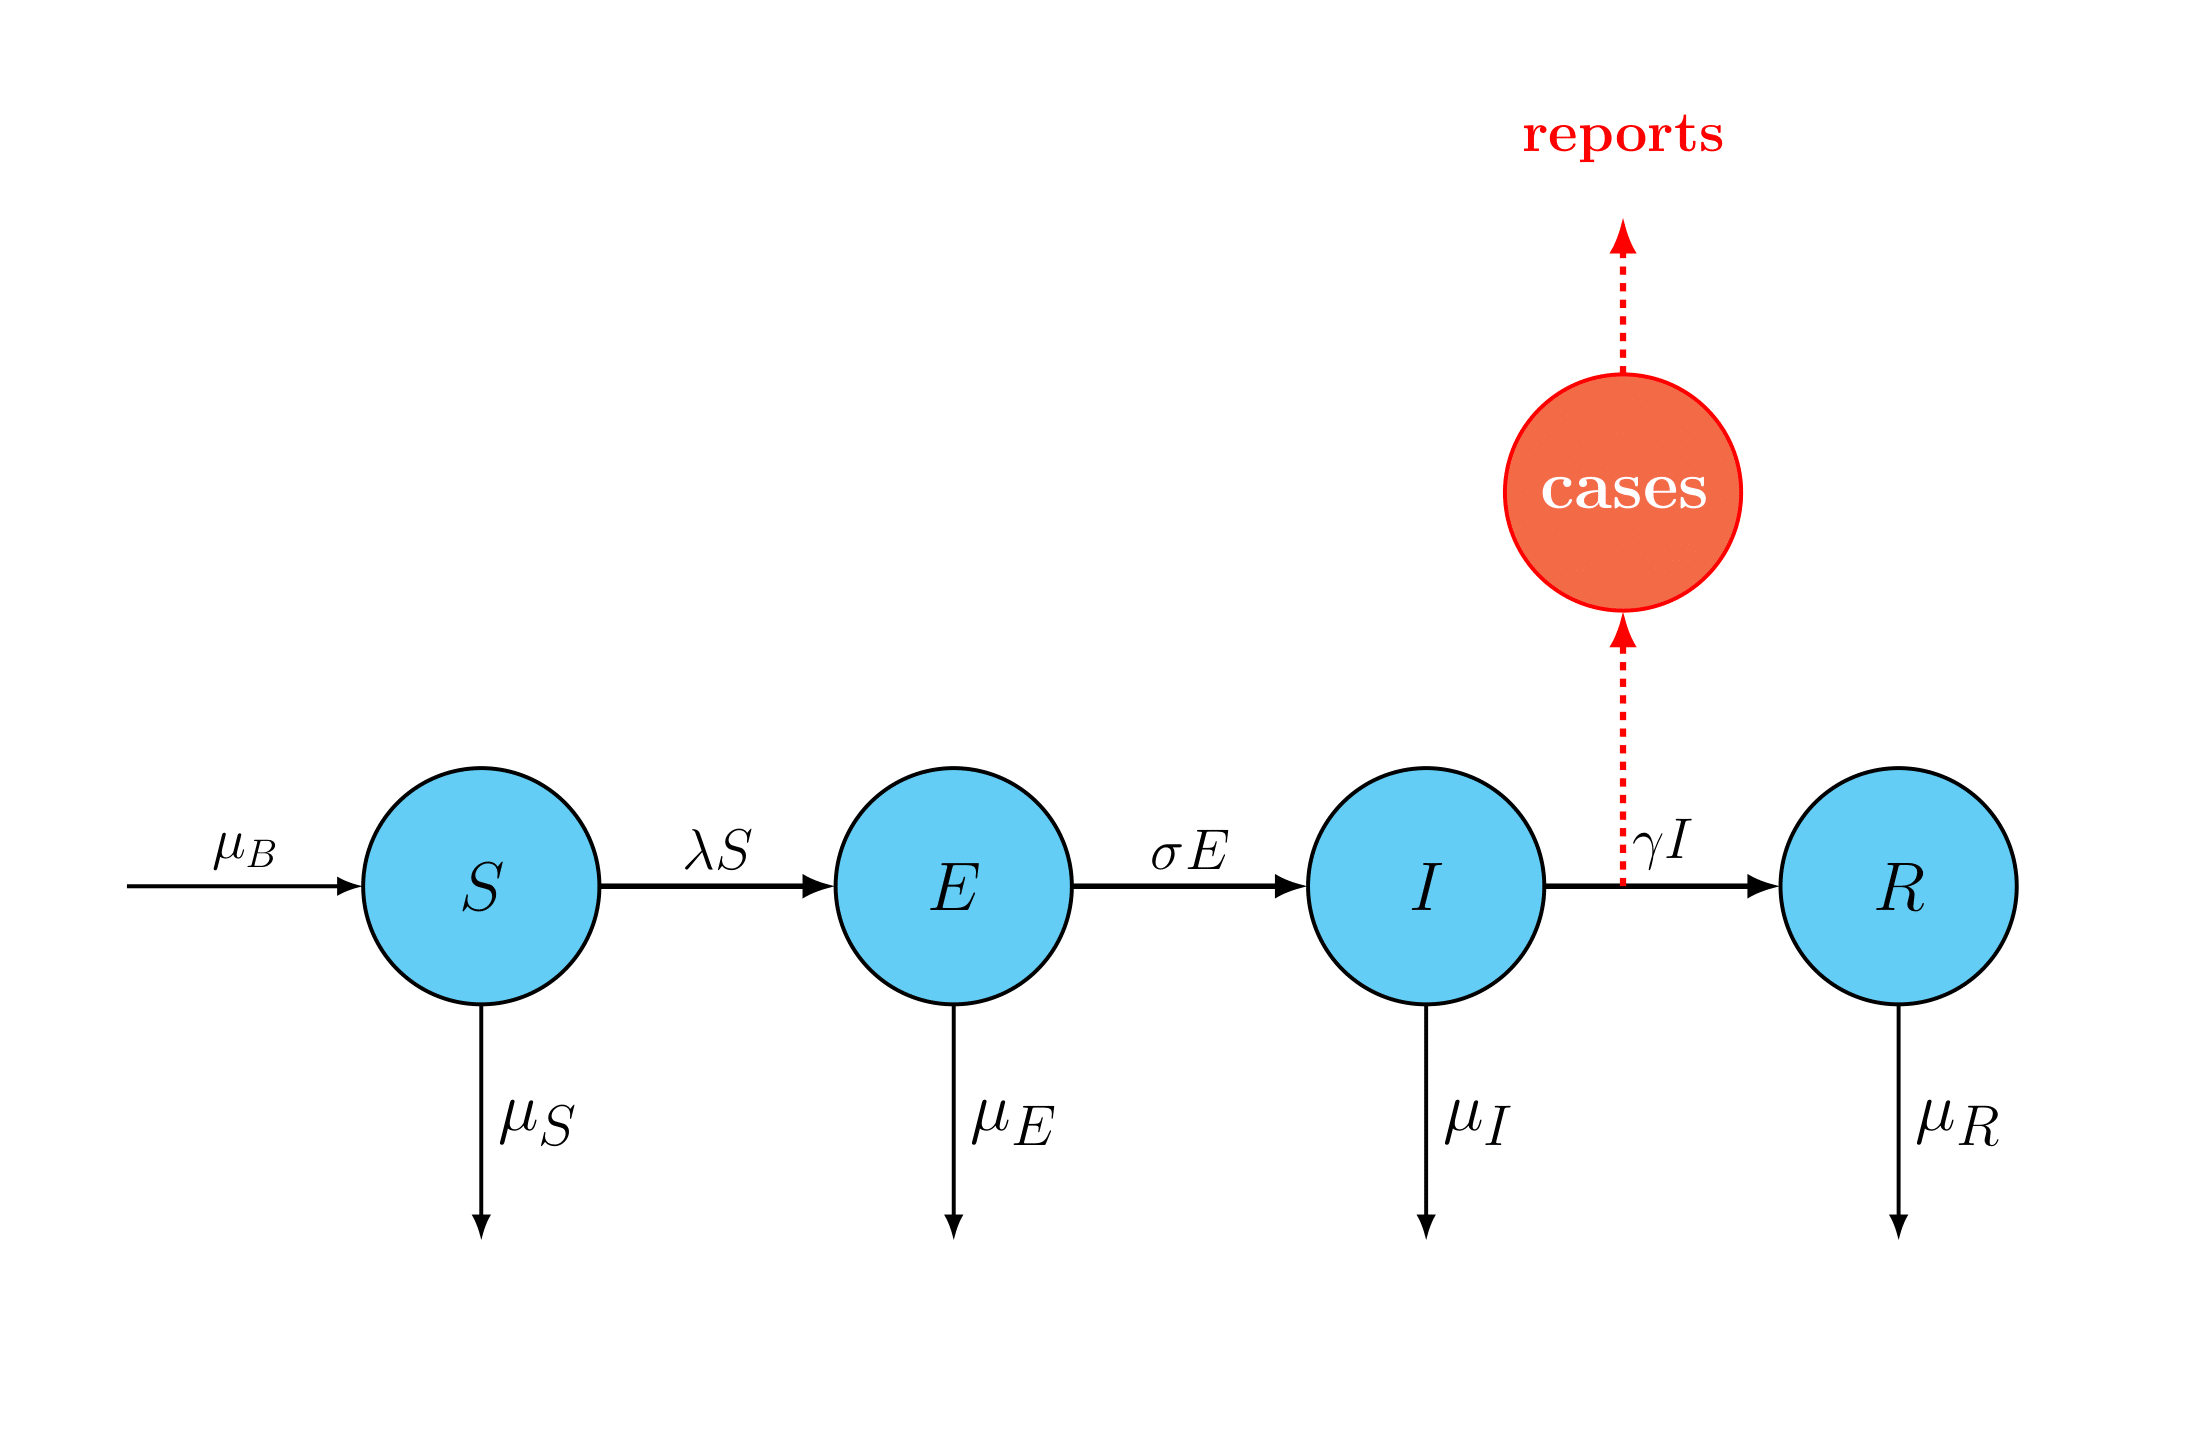
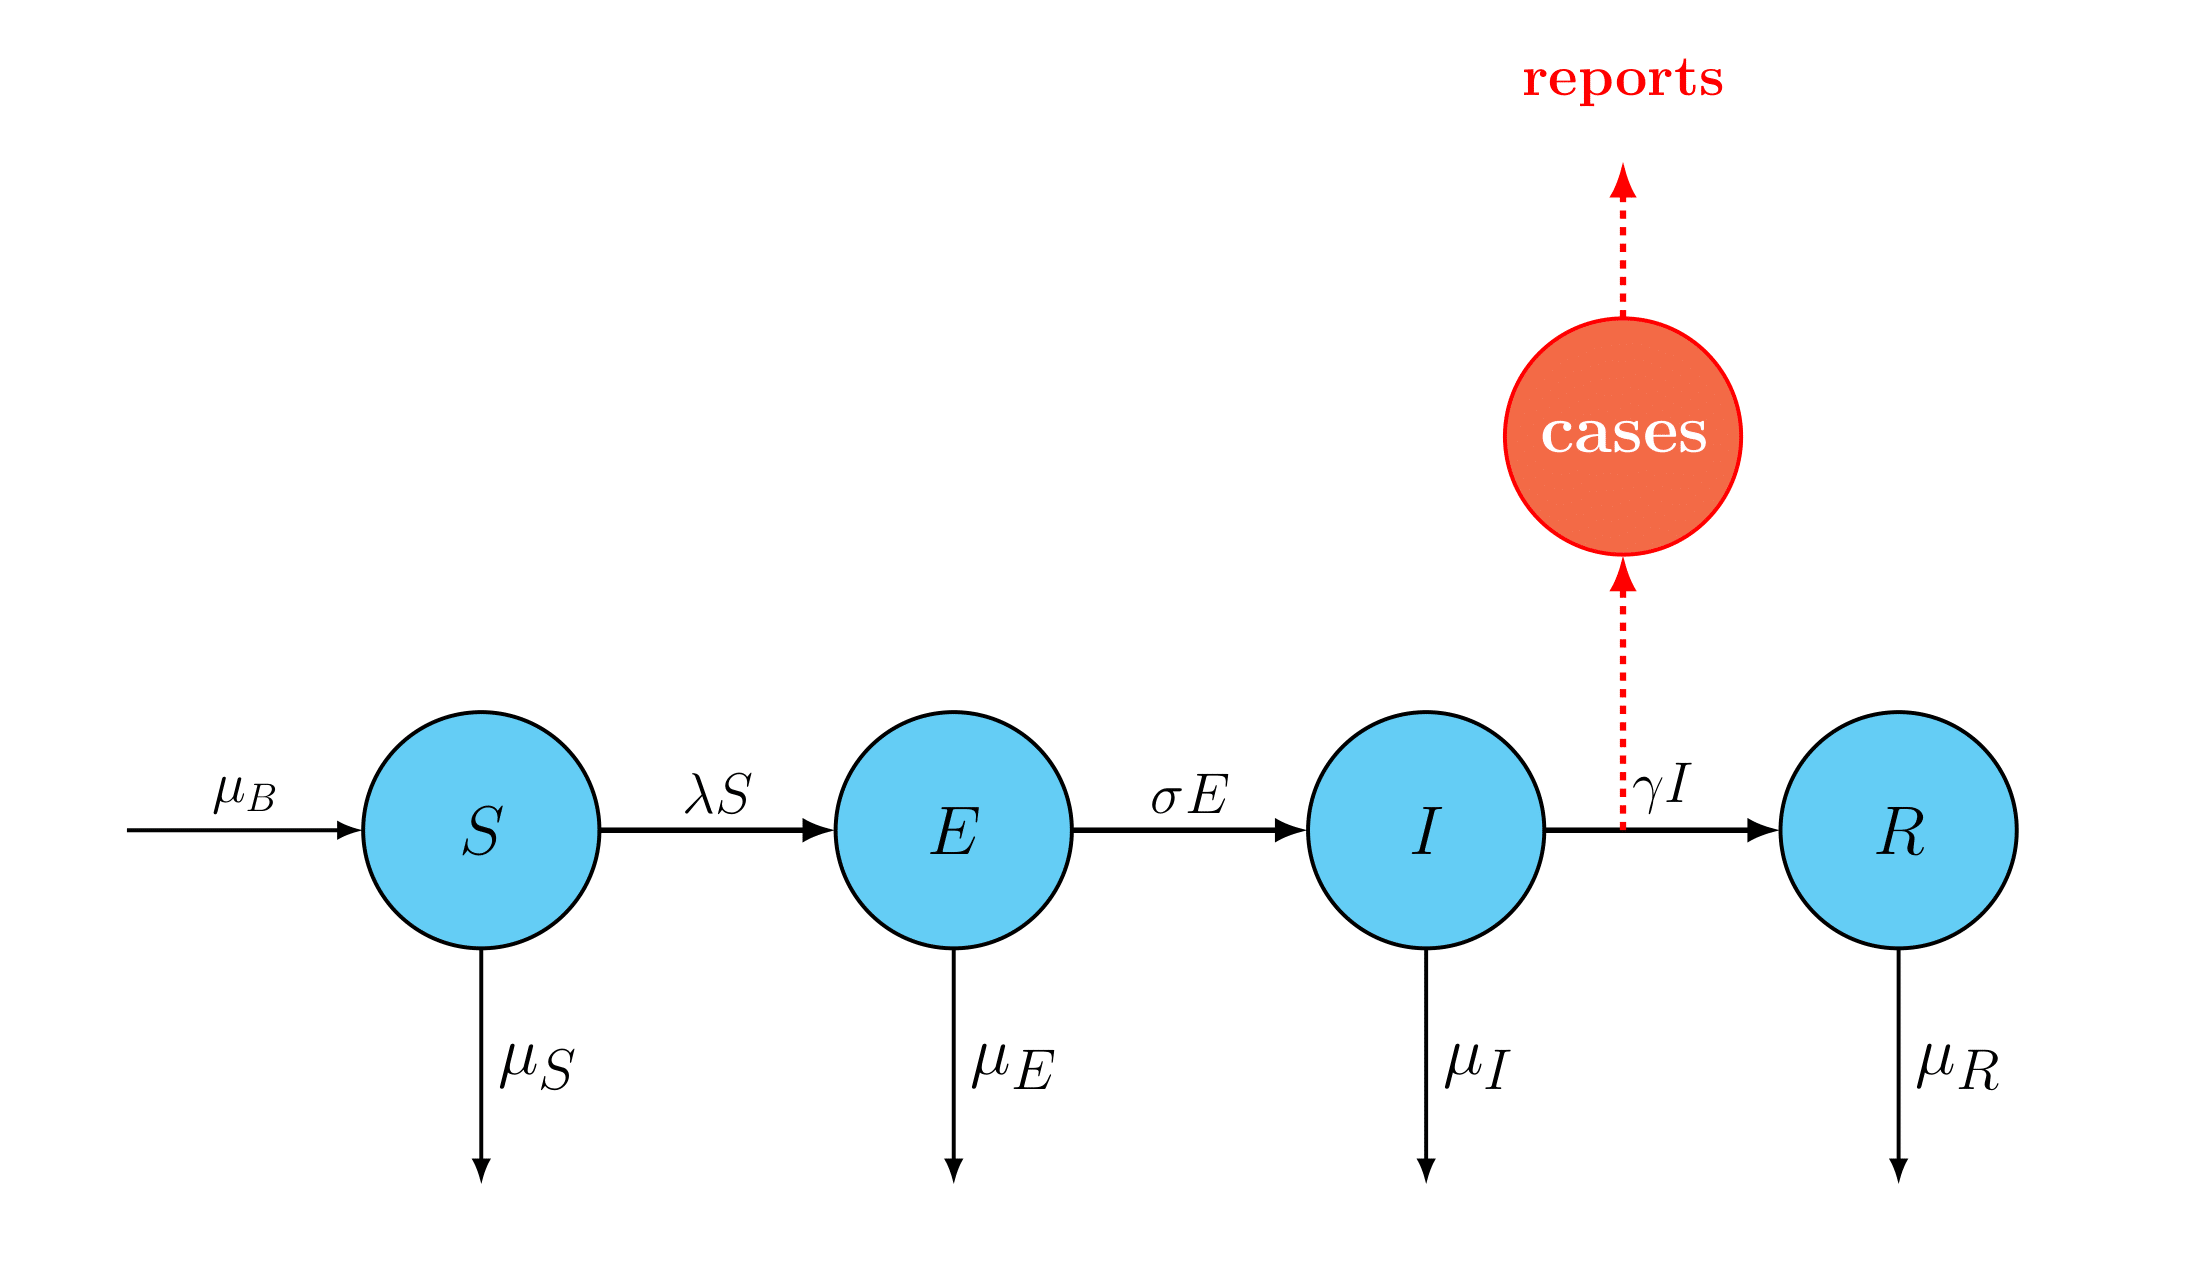
update sobol ui

diff --git a/index.html b/index.html
@@ -29,7 +29,7 @@
   <br>
 <div class="container" style="width: 80%">
   <p>Data analysis typically involves identifying regions of parameter space within which a postulated model is statistically consistent with the data. Additionally, one frequently desires to assess the relative merits of alternative models as explanations of the data. </p>
-    <p>A partially observed Markov process (POMP) model consists of incomplete and noisy measurements of a latent, unobserved Markov process. It has been a challenge to provide a software environment that can effectively handle broad classes of POMP models and take advantage of the wide range of statistical methodologies that have been proposed for such models. The pomp software package (King et al. 2016) provides us with a wide range of functions to represent POMP models.</p>
+    <p>A partially observed Markov process (POMP) model consists of incomplete and noisy measurements of a latent, unobserved Markov process. It has been a challenge to provide a software environment that can effectively handle broad classes of POMP models and take advantage of the wide range of statistical methodologies that have been proposed for such models. The <a href="https://kingaa.github.io/pomp/install.html">R package pomp </a> (King et al. 2016) provides us with a wide range of functions to represent POMP models.</p>
 
   <ul class="nav nav-tabs">
     <li class="active"><a data-toggle="tab" href="#home">Home</a></li>
@@ -40,24 +40,7 @@
   <div class="tab-content ">
     <!-- FIRST TAB -->
     <div id="home" class="tab-pane fade in active ">
-        <h3>What is trajectory matching?</h3>
-        <p> When dealing with large populations deterministic models are often used. In deterministic compartmental models, the transition rates from one compartment to another are mathematically expressed as derivatives. Hence the model is formulated using ordinary differential equations (ODE), Kermack WO [1927]. Trajectory matching attempts to match trajectories of a deterministic model to data. In fact,  the function estimates the parameter of the model by fitting the trajectory to data. It maximize the likelihood of the data assuming there is no process noise and all stochasticity is measurement error. The R package <a href="https://kingaa.github.io/pomp/install.html">pomp </a> provides useful tools for trajectory matching. </p>
-        <h4>Model</h4>
-          <p>Infectious diseases of humans have been well-documented in literature and historical
-          records due to their sometimes calamitous effects on civilizations. The effect of a disease on a population varies, depending on the structure of the
-          population (rural or urban, aging or young, easy or difficult access to health care),
-          and the history that the community has had with the specific disease. Mathematical and statistical tools have been used to describe the dynamics of
-          infectious diseases. </p>
-          <p>The SEIR model is an extension of the model first studied by Kermack and McKendrick [1932, 1933]. This is a standard compartmental model framework used in epidemiology in which the hosts have the following compartments available: susceptible, exposed, infected, recovered. Considering N(t) the population at time t,  $$S(t) + E(t) + I(t) + R(t) = N(t)$$</p>
-          <p>Here the number of new infected cases is defined by $$\text{cases}: C(t_1,t_2) = \int_{t_1}^{t_2} B(t) \, \frac{S(t) I(t)}{N(t)}\, dt$$ where \( B(t)\) is the forcing function
-          that reflects the actual seasonally changing circumstances. \(\rho\) is the probability of reporting and  \( \psi \) is reporting overdispersion. Reports between  \((t_1, t_2)\) is normally distributed that is similar to the overdispersed binomial. $$\text{reports} \sim  \text{Normal}(\rho \, C(t_1, t_2), \rho \, (1- \rho)C(t_1, t_2) + ( \psi \rho\, C(t_1, t_2))^2 )$$</p>
-          <div>
-          <figure style="margin-left: 20%">
-            <img id="SEIR" src="./data/SEIR.png" width="60%" height="50%" >
-            <figcaption style="margin-left: 10%" >Figure 2: SEIR Model include hidden cases and the report. </figcaption>
-          </figure>
-        </div>
-        <h4>Tools for fitting the model</h4>
+      <h3>POMP</h3>
         <p>Partially observed Markov process models consist of an unobserved Markov state process, connected to the data via a model of the observation (measurement) process. The process model is determined by the density \(P(x_n|x_{n−1})\) and the measurement process is determined by the density \(P(y_n|x_n)\).</p>
         <div>
           <figure style="margin-left: 20%">
@@ -65,7 +48,26 @@
             <figcaption style="margin-left: 28%">Figure 2: POMP model </figcaption>
           </figure>
         </div>
-        <br>
+
+        <h3>What is trajectory matching?</h3>
+        <p> When dealing with large populations deterministic models are often used. In deterministic compartmental models, the transition rates from one compartment to another are mathematically expressed as derivatives. Hence the model is formulated using ordinary differential equations (ODE), Kermack WO [1927]. Trajectory matching attempts to match trajectories of a deterministic model to data. In fact,  the function estimates the parameter of the model by fitting the trajectory to data. It maximize the likelihood of the data assuming there is no process noise and all stochasticity is measurement error. </p>
+        <h4>Model</h4>
+          <p>Infectious diseases of humans have been well-documented in literature and historical
+          records due to their sometimes calamitous effects on civilizations. The effect of a disease on a population varies, depending on the structure of the
+          population (rural or urban, aging or young, easy or difficult access to health care),
+          and the history that the community has had with the specific disease. Mathematical and statistical tools have been used to describe the dynamics of
+          infectious diseases. </p> 
+          <div>
+            <figure style="text-align: center;">
+              <img id="SEIR" src="./data/SEIR.png" width="40%" height="30%" >
+              <figcaption style="margin-left: 10%" >Figure 2: SEIR Model include hidden cases and the report. </figcaption>
+            </figure>
+          </div>
+          <br>
+          <p>The SEIR model is an extension of the model first studied by Kermack and McKendrick [1932, 1933]. This is a standard compartmental model framework used in epidemiology in which the hosts have the following compartments available: susceptible, exposed, infected, recovered. Considering N(t) the population at time t,  $$S(t) + E(t) + I(t) + R(t) = N(t)$$</p>
+          <p>Here the number of new infected cases is defined by $$\text{cases}: C(t_1,t_2) = \int_{t_1}^{t_2} B(t) \, \frac{S(t) I(t)}{N(t)}\, dt$$ where \( B(t)\) is the forcing function
+          that reflects the actual seasonally changing circumstances. \(\rho\) is the probability of reporting and  \( \psi \) is reporting overdispersion. Reports between  \((t_1, t_2)\) is normally distributed that is similar to the overdispersed binomial. $$\text{reports} \sim  \text{Normal}(\rho \, C(t_1, t_2), \rho \, (1- \rho)C(t_1, t_2) + ( \psi \rho\, C(t_1, t_2))^2 )$$</p>
+        
         <p> Using process model, measurement model and initial point, trajectory matching can optimize the parameter of the model based on the maximum likihood  estimation and fit the model to the data. The result can be illustrated as an simulation.  </p>
       <figure style="text-align: center;">
         <img id="data" src="./data/LondonData.png" width="70%" height="40%" >
@@ -101,7 +103,7 @@
             <td ><input id= modelt0 style="width:100%;border: 0" type="number" value="1940" ></td>
           </tr>
           <tr>
-            <td class="variable" style="height:50px"> Maximum time step</td>
+            <td title="biweekly" class="variable" style="height:50px"> Maximum time step</td>
             <td ><input id= modelTimestep style="width:100%;border: 0" type="number" value="0.03832991102"></td>
           </tr>
         </table>
@@ -319,7 +321,7 @@ return lik'
             <tr>
               <td title="Initial fraction of susceptibles"> S_0 </td>
               <td> <input type="number" value="0"></td>
-              <td> <input type="number" value="0.1"></td>
+              <td> <input type="number" value="0.2"></td>
             </tr>
             <tr>
               <td title="Initial fraction of exposed">E_0</td>
@@ -415,9 +417,9 @@ return lik'
               <button id="buttonRunR0" class="custom-button-style-only">Generate & Run</button>
             </center>
           </div>
-          <div class="force-center">
-            <textarea  class = "special-log"  id="special-log-R0"></textarea>
-          </div>
+        </div>
+        <div class="force-center">
+          <textarea  class = "special-log"  id="special-log-R0"></textarea>
         </div>
       </div>
       <button style="background-color:#b1cbbb;width: 100%" class="accordion">Amplitude</button>
@@ -470,9 +472,9 @@ return lik'
               <button id="buttonRunAmplitude" class="custom-button-style-only">Generate & Run</button>
             </center>
           </div>
-          <div class="force-center">
-            <textarea  class = "special-log"  id="special-log-Amplitude"></textarea>
-          </div>
+        </div>
+        <div class="force-center">
+          <textarea  class = "special-log"  id="special-log-Amplitude"></textarea>
         </div>
       </div>
       <button style="background-color:#eea29a  ;width: 100%" class="accordion">Mu</button>
@@ -525,9 +527,9 @@ return lik'
               <button id="buttonRunMu" class="custom-button-style-only">Generate & Run</button>
             </center>
           </div>
-          <div class="force-center">
-            <textarea  class = "special-log"  id="special-log-Mu"></textarea>
-          </div>
+        </div>
+        <div class="force-center">
+          <textarea  class = "special-log"  id="special-log-Mu"></textarea>
         </div>
       </div>
       <button style="background-color:#F2D7D5;width: 100%" class="accordion">Rho</button>
@@ -580,9 +582,9 @@ return lik'
               <button id = "buttonRunRho"  class="custom-button-style-only">Generate & Run</button>
             </center>
           </div>
-          <div class="force-center">
-            <textarea  class = "special-log"  id="special-log-Rho"></textarea>
-          </div>
+        </div>
+        <div class="force-center">
+          <textarea  class = "special-log"  id="special-log-Rho"></textarea>
         </div>
       </div>
       <button style="background-color:#BCE6BF;width: 100%" class="accordion">Psi</button>
@@ -635,9 +637,9 @@ return lik'
               <button id="buttonRunPsi" class="custom-button-style-only">Generate & Run</button>
             </center>
           </div>
-          <div class="force-center">
-            <textarea  class = "special-log"  id="special-log-Psi"></textarea>
-          </div>
+        </div>
+        <div class="force-center">
+          <textarea  class = "special-log"  id="special-log-Psi"></textarea>
         </div>
       </div>
     <button id="combineButton" class="custom-button">Combine</button>

diff --git a/ui.js b/ui.js
@@ -105,7 +105,7 @@ function start () {
      resSobol = [['R0', 'amplitude', 'gamma', 'mu', 'sigma', 'rho', 'psi', 'S_0', 'E_0', 'I_0', 'R_0', 'LogLik']]
     let sobolBoundTable = document.getElementById('sobolBound')
     let rows = sobolBoundTable.querySelectorAll('tr')
-    for(i = 1; i < rows.length; i++){
+    for(i = 1; i < rows.length - 1; i++){
       let row = rows[i]
       let cols = row.querySelectorAll('td')
       let lowerBound = cols[1].querySelector('input').value
@@ -115,6 +115,10 @@ function start () {
     }
     let SobolNumberOfPoints = Number(document.getElementById('sobolPoint').value)
     let sobolSet = sobolSeq.sobolDesign( lowerBounds,  upperBounds, SobolNumberOfPoints)
+    for ( let i = 0; i < sobolSet.length; i++) {
+      len = sobolSet[i].length
+      sobolSet[i].push(1- (sobolSet[i][len - 1] + sobolSet[i][len - 2] + sobolSet[i][len - 3]))
+    }
     if(!dataCovar.length) {
       alert('Upload data in "Model and Data", then you can generate and run!')
     } else {

diff --git a/styles.css b/styles.css
@@ -359,4 +359,5 @@ input:checked + .slider:before {
 .force-center {
   margin-top: 20px;
   text-align: center;
+  padding-bottom: 8px;
 }
